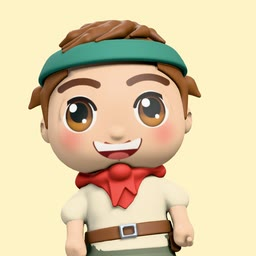
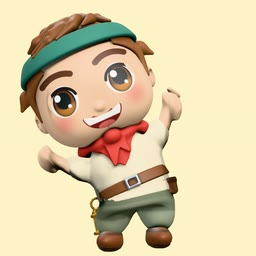
fix(storytime): march, stamp, and sway line pictures show the move
In bc025fb these three pictures looked close to idle: the Adventurer's
legs are short and the shared crop ends below the belt. chibi-sprouts
made one still pose of each for the pictures only (2026-10-24):
march = a thigh past level and the arms swinging, stamp = a thigh level
with the fists down, sway = a 15 degree lean with the arms up.

- forge-gestures/manifest.json: "march-picture", "stamp-picture",
  "sway-picture" keys (the video keys do not change).
- line-pictures.mjs: a "<gesture>-picture" key wins over the beat frame.
  A pose has its own crop (poseCrop: the whole figure with the raised
  foot, down to the frame bottom, moved into the frame), and the shared
  crop of the week comes from the other gestures only. So the other
  pictures of weeks 2, 5, 6, and 7 do not change; week 3 changes (the
  old sway frame set its crop) and is a little larger now.
- 14 JPEGs: the sway, stamp, and march pictures and the week 3 set.

Gates: video tests 21/21 (2 new; 3 mutants caught), prettier,
check-weeks --level 2: 8 packages, 1 failed check (w01 published: the
approvals wait for Daniel, as before), 6 warnings.

diff --git a/measure/tracks/storytime_week_package_20261022/plan.md b/measure/tracks/storytime_week_package_20261022/plan.md
@@ -29,4 +29,4 @@
 
 ## Phase 6: Song-line pictures for weeks 2 to 7 (QR3; Daniel's go 2026-10-24, item 4)
 
-- [~] Task: the gesture pictures of the week 2 to 7 song lines (`video/storytime-song/scripts/line-pictures.mjs`, test first: the week's own Forge set, else the gesture library). The library `content/storytime/forge-gestures/` is a Forge set with gestures only: the week 1 frames and the chibi-sprouts stills for weeks 2 to 7 (advantage-forge `out/chibi-sprouts/r1/week2-7/gestures`, 2026-10-24; 21 gestures, 32 frames). Only its `manifest.json` is in git; the video does not read it, so weeks 2 to 7 keep the placeholder art until Daniel passes the week 1 video. 45 pictures, 540 KB; `image.file` on 50 lines. Follow-up: march, stamp, and sway look close to idle in a still (the legs are short and the crop ends below the belt); turn has no independent review yet.
+- [~] Task: the gesture pictures of the week 2 to 7 song lines (`video/storytime-song/scripts/line-pictures.mjs`, test first: the week's own Forge set, else the gesture library). The library `content/storytime/forge-gestures/` is a Forge set with gestures only: the week 1 frames and the chibi-sprouts stills for weeks 2 to 7 (advantage-forge `out/chibi-sprouts/r1/week2-7/gestures`, 2026-10-24; 21 gestures, 32 frames). Only its `manifest.json` is in git; the video does not read it, so weeks 2 to 7 keep the placeholder art until Daniel passes the week 1 video. 45 pictures, 540 KB; `image.file` on 50 lines. Follow-up done: march, stamp, and sway looked close to idle in a still (the legs are short and the crop ends below the belt), so chibi-sprouts made one still pose of each for the pictures only (`<gesture>-picture` in the manifest). A pose has its own crop, the whole figure with the raised foot, and does not change the shared crop of the week. Turn has no independent review yet.
